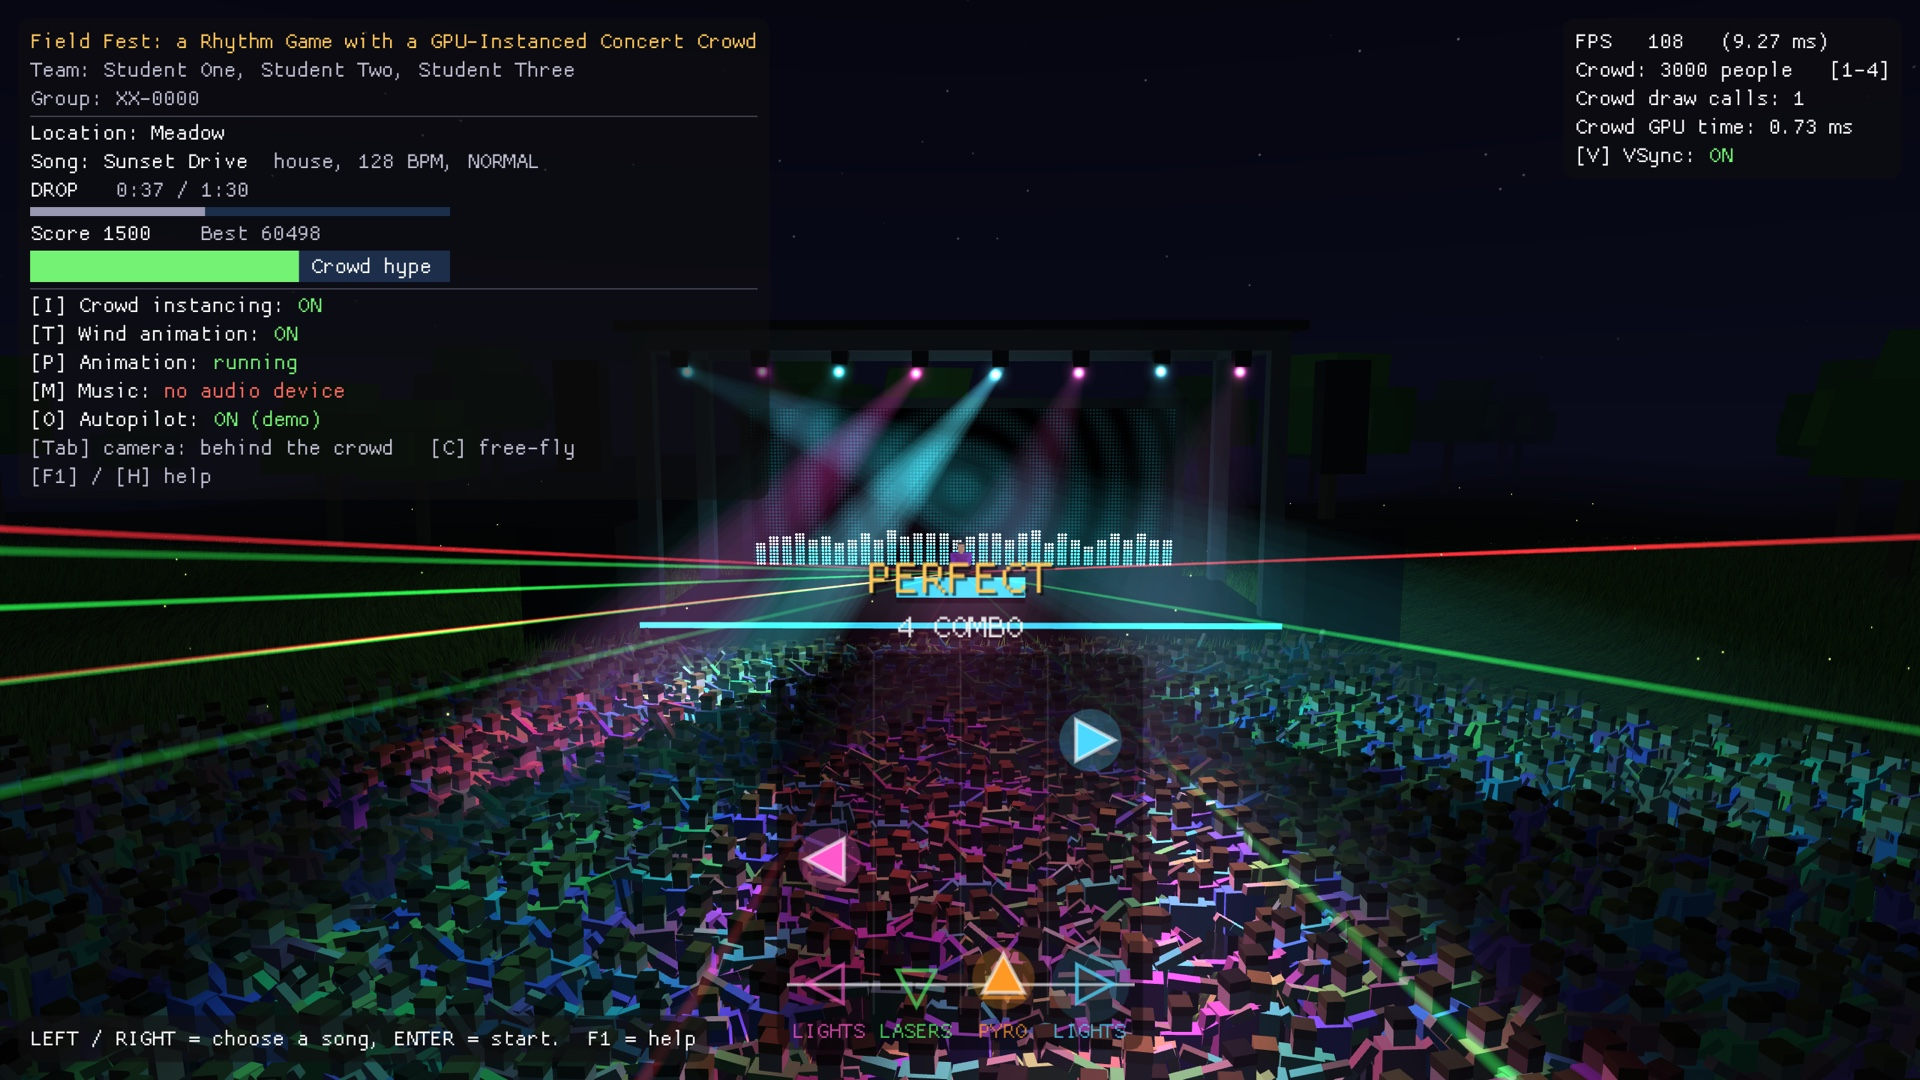
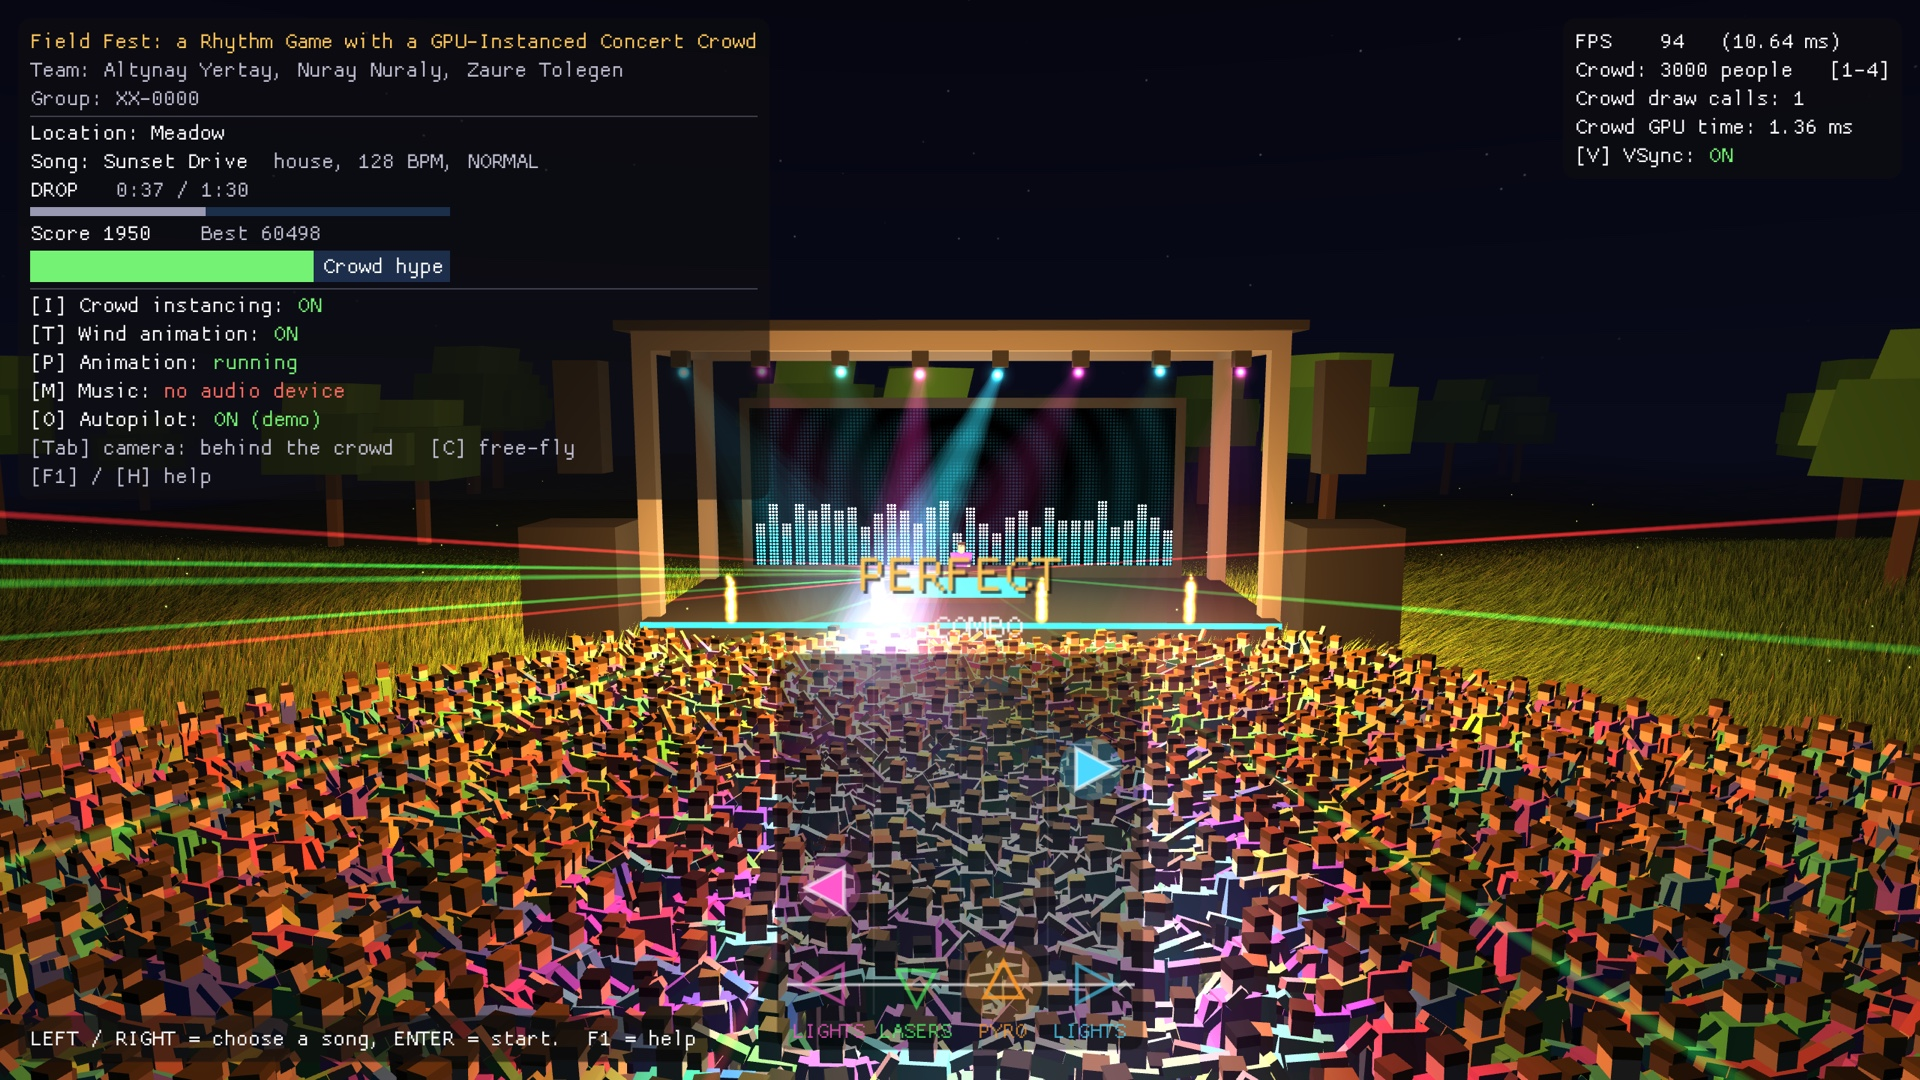
Add team member names

diff --git a/src/Config.h b/src/Config.h
@@ -1,7 +1,7 @@
 #pragma once
 namespace cfg {
 inline constexpr const char* kTopic   = "Field Fest: a Rhythm Game with a GPU-Instanced Concert Crowd";
-inline constexpr const char* kTeam    = "Team: Student One, Student Two, Student Three";
+inline constexpr const char* kTeam    = "Team: Altynay Yertay, Nuray Nuraly, Zaure Tolegen";
 inline constexpr const char* kGroup   = "Group: XX-0000";
 
 inline constexpr float kFieldSize     = 96.0f;

diff --git a/README.md b/README.md
@@ -2,7 +2,7 @@
 
 Computer Graphics Fundamentals, Final Project (Astana IT University, 2026–2027)
 
-> **Team:** Student One, Student Two, Student Three · **Group:** XX-0000 · **Topic #:** N
+> **Team:** Altynay Yertay, Nuray Nuraly, Zaure Tolegen · **Group:** XX-0000 · **Topic #:** N
 > *(Edit these here and in `src/Config.h` so they match the topic sheet.)*
 
 A real-time OpenGL 3.3 core rhythm game set at an open-air night concert in one of three
